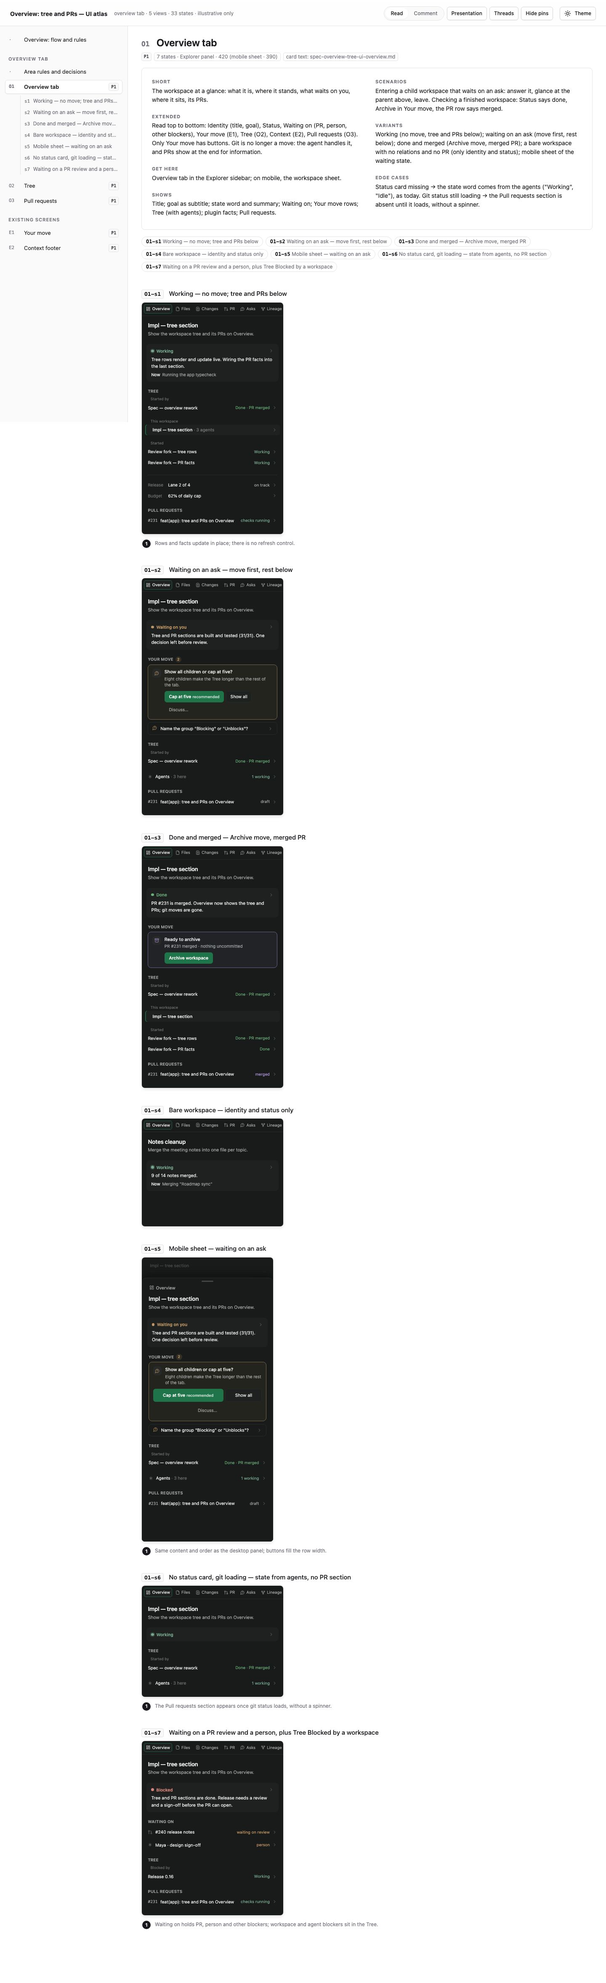
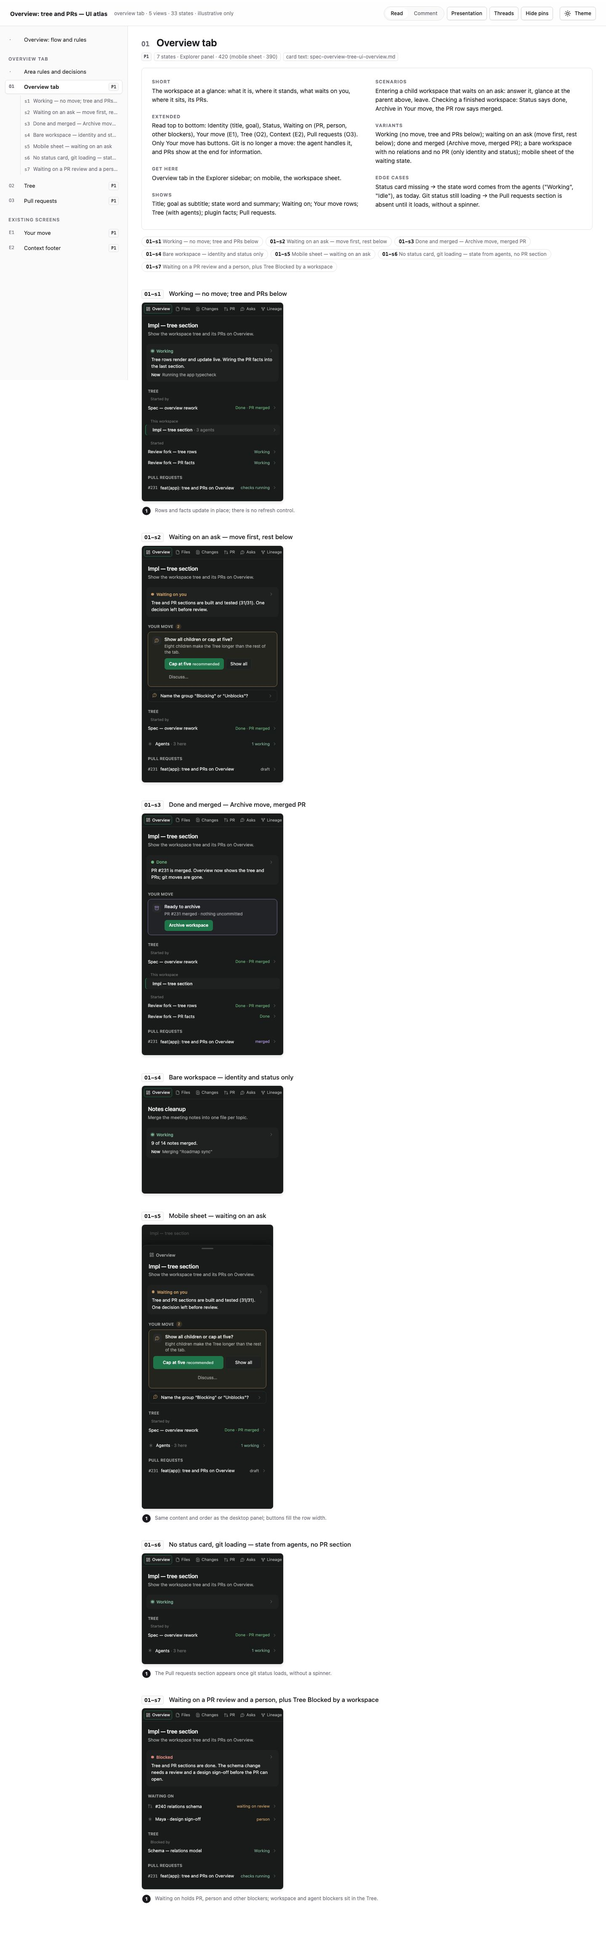
docs(overview): replace invented plugin facts and names in the atlas

diff --git a/.ai/prototypes/overview-tree/index.html b/.ai/prototypes/overview-tree/index.html
@@ -27,7 +27,7 @@
       <div class="ka-states" data-view="O2" hidden><a href="#O2-s1" title="Parent chain, this workspace, children"><code>s1</code> Parent chain, this workspace, children</a><a href="#O2-s2" title="Deep chain — three ancestors, no children"><code>s2</code> Deep chain — three ancestors, no children</a><a href="#O2-s3" title="Many children — five shown, then Show all"><code>s3</code> Many children — five shown, then Show all</a><a href="#O2-s4" title="Blocked by a workspace and an agent"><code>s4</code> Blocked by a workspace and an agent</a><a href="#O2-s5" title="Blocking two workspaces"><code>s5</code> Blocking two workspaces</a><a href="#O2-s6" title="Only children — a root workspace"><code>s6</code> Only children — a root workspace</a><a href="#O2-s7" title="Not loaded, Archived, Removed workspace"><code>s7</code> Not loaded, Archived, Removed workspace</a><a href="#O2-s8" title="Blocks and is blocked by the same workspace"><code>s8</code> Blocks and is blocked by the same workspace</a><a href="#O2-s9" title="Several agents, no This workspace row (Agents row)"><code>s9</code> Several agents, no This workspace row (Agents row)</a></div><a href="#O3" data-view="O3"><span class="ka-id">O3</span><span class="ka-name">Pull requests</span><span class="ka-phase ka-phase-P1">P1</span></a>
       <div class="ka-states" data-view="O3" hidden><a href="#O3-s1" title="One open PR, checks passing"><code>s1</code> One open PR, checks passing</a><a href="#O3-s2" title="Failing checks and changes requested — red"><code>s2</code> Failing checks and changes requested — red</a><a href="#O3-s3" title="Stack of four — two merged, folded"><code>s3</code> Stack of four — two merged, folded</a><a href="#O3-s4" title="Merged row expanded"><code>s4</code> Merged row expanded</a><a href="#O3-s5" title="Merged PR only — shown directly"><code>s5</code> Merged PR only — shown directly</a><a href="#O3-s6" title="No PR yet — branch facts, branch name muted"><code>s6</code> No PR yet — branch facts, branch name muted</a><a href="#O3-s7" title="Linked PR from another repository"><code>s7</code> Linked PR from another repository</a><a href="#O3-s8" title="GitHub unreachable — last facts, &quot;not refreshed&quot;"><code>s8</code> GitHub unreachable — last facts, &quot;not refreshed&quot;</a></div></div><div class="ka-group"><h3>Existing screens</h3><a href="#E1" data-view="E1"><span class="ka-id">E1</span><span class="ka-name">Your move</span><span class="ka-phase ka-phase-P1">P1</span></a>
       <div class="ka-states" data-view="E1" hidden><a href="#E1-s1" title="One ask open"><code>s1</code> One ask open</a><a href="#E1-s2" title="Ask plus permission"><code>s2</code> Ask plus permission</a><a href="#E1-s3" title="Failed agent"><code>s3</code> Failed agent</a><a href="#E1-s4" title="Archive alone after a merge"><code>s4</code> Archive alone after a merge</a><a href="#E1-s5" title="Empty — section hidden, branch unpushed"><code>s5</code> Empty — section hidden, branch unpushed</a><a href="#E1-s6" title="Archive fails — error under the title"><code>s6</code> Archive fails — error under the title</a><a href="#E1-s7" title="PR merged, agent still running — no Archive"><code>s7</code> PR merged, agent still running — no Archive</a></div><a href="#E2" data-view="E2"><span class="ka-id">E2</span><span class="ka-name">Context footer</span><span class="ka-phase ka-phase-P1">P1</span></a>
-      <div class="ka-states" data-view="E2" hidden><a href="#E2-s1" title="Two plugin facts"><code>s1</code> Two plugin facts</a><a href="#E2-s2" title="Nothing to say — footer hidden"><code>s2</code> Nothing to say — footer hidden</a></div></div>
+      <div class="ka-states" data-view="E2" hidden><a href="#E2-s1" title="Two plugin facts (a third-party plugin)"><code>s1</code> Two plugin facts (a third-party plugin)</a><a href="#E2-s2" title="Nothing to say — footer hidden"><code>s2</code> Nothing to say — footer hidden</a></div></div>
   </nav></aside>
 <main class="doc ka-main">
 <header class="doc-head" hidden><h1>Overview: tree and PRs — UI atlas</h1></header>
@@ -77,7 +77,7 @@
     <div class="ot-state ot-t-run"><i class="ot-dot is-pulse"></i>Working<span class="ot-chev ot-push"><svg aria-hidden="true"><use href="#ic-chevron-right"/></svg></span></div>
     <p class="ot-summary">Tree rows render and update live. Wiring the PR facts into the last section.</p>
     <p class="ot-now"><b>Now</b>Running the app typecheck</p>
-  </section><section class="ot-sec"><div class="ot-sec-title">Tree</div><div class="ot-grp"><div class="ot-grp-label">Started by</div><div class="ot-row  " style="--lv:0"><span class="ot-name">Spec — overview rework</span><span class="ot-word"><span class="ot-t-ok">Done · PR merged</span></span><span class="ot-chev"><svg aria-hidden="true"><use href="#ic-chevron-right"/></svg></span></div></div><div class="ot-grp"><div class="ot-grp-label">This workspace</div><div class="ot-row is-here " style="--lv:1"><span class="ot-name">Impl — tree section<span class="ot-dim"> · 3 agents</span></span><span class="ot-chev"><svg aria-hidden="true"><use href="#ic-chevron-right"/></svg></span></div></div><div class="ot-grp"><div class="ot-grp-label">Started</div><div class="ot-row  " style="--lv:0"><span class="ot-name">Review fork — tree rows</span><span class="ot-word"><span class="ot-t-run">Working</span></span><span class="ot-chev"><svg aria-hidden="true"><use href="#ic-chevron-right"/></svg></span></div><div class="ot-row  " style="--lv:0"><span class="ot-name">Review fork — PR facts</span><span class="ot-word"><span class="ot-t-run">Working</span></span><span class="ot-chev"><svg aria-hidden="true"><use href="#ic-chevron-right"/></svg></span></div></div></section><footer class="ot-ctx"><div class="ot-ctx-row"><span class="ot-k">Release</span><span class="ot-v">Lane 2 of 4</span><span class="ot-word ot-t-muted">on track</span><span class="ot-chev"><svg aria-hidden="true"><use href="#ic-chevron-right"/></svg></span></div><div class="ot-ctx-row"><span class="ot-k">Budget</span><span class="ot-v">62% of daily cap</span><span class="ot-chev"><svg aria-hidden="true"><use href="#ic-chevron-right"/></svg></span></div></footer><section class="ot-sec"><div class="ot-sec-title">Pull requests</div><div class="ot-row "><span class="ot-pr">#231</span><span class="ot-name">feat(app): tree and PRs on Overview</span><span class="ot-word ot-t-run">checks running</span><span class="ot-chev"><svg aria-hidden="true"><use href="#ic-chevron-right"/></svg></span></div></section></div></div></div>
+  </section><section class="ot-sec"><div class="ot-sec-title">Tree</div><div class="ot-grp"><div class="ot-grp-label">Started by</div><div class="ot-row  " style="--lv:0"><span class="ot-name">Spec — overview rework</span><span class="ot-word"><span class="ot-t-ok">Done · PR merged</span></span><span class="ot-chev"><svg aria-hidden="true"><use href="#ic-chevron-right"/></svg></span></div></div><div class="ot-grp"><div class="ot-grp-label">This workspace</div><div class="ot-row is-here " style="--lv:1"><span class="ot-name">Impl — tree section<span class="ot-dim"> · 3 agents</span></span><span class="ot-chev"><svg aria-hidden="true"><use href="#ic-chevron-right"/></svg></span></div></div><div class="ot-grp"><div class="ot-grp-label">Started</div><div class="ot-row  " style="--lv:0"><span class="ot-name">Review fork — tree rows</span><span class="ot-word"><span class="ot-t-run">Working</span></span><span class="ot-chev"><svg aria-hidden="true"><use href="#ic-chevron-right"/></svg></span></div><div class="ot-row  " style="--lv:0"><span class="ot-name">Review fork — PR facts</span><span class="ot-word"><span class="ot-t-run">Working</span></span><span class="ot-chev"><svg aria-hidden="true"><use href="#ic-chevron-right"/></svg></span></div></div></section><section class="ot-sec"><div class="ot-sec-title">Pull requests</div><div class="ot-row "><span class="ot-pr">#231</span><span class="ot-name">feat(app): tree and PRs on Overview</span><span class="ot-word ot-t-run">checks running</span><span class="ot-chev"><svg aria-hidden="true"><use href="#ic-chevron-right"/></svg></span></div></section></div></div></div>
     <div class="notes"><div class="note"><b>1</b><span>Rows and facts update in place; there is no refresh control.</span></div></div>
   </figure>
 <figure class="ka-state" id="O1-s2">
@@ -143,9 +143,9 @@
     <figcaption><a class="ka-sid" href="#O1-s7">O1-s7</a><span>Waiting on a PR review and a person, plus Tree Blocked by a workspace</span></figcaption>
     <div class="frame ot-frame"><div class="ot-win dark"><div class="ot-tabs"><div class="ot-tab is-on"><svg aria-hidden="true"><use href="#ic-dash"/></svg><span>Overview</span></div><div class="ot-tab "><svg aria-hidden="true"><use href="#ic-files"/></svg><span>Files</span></div><div class="ot-tab "><svg aria-hidden="true"><use href="#ic-diff"/></svg><span>Changes</span></div><div class="ot-tab "><svg aria-hidden="true"><use href="#ic-pr"/></svg><span>PR</span></div><div class="ot-tab "><svg aria-hidden="true"><use href="#ic-ask"/></svg><span>Asks</span></div><div class="ot-tab "><svg aria-hidden="true"><use href="#ic-fork"/></svg><span>Lineage</span></div><span class="ot-tabs-end"><svg aria-hidden="true"><use href="#ic-plus"/></svg><svg aria-hidden="true"><use href="#ic-panel"/></svg></span></div><div class="ot-ov"><header class="ot-id"><h1 class="ot-title">Impl — tree section</h1><p class="ot-goal">Show the workspace tree and its PRs on Overview.</p></header><section class="ot-story">
     <div class="ot-state ot-t-danger"><i class="ot-dot "></i>Blocked<span class="ot-chev ot-push"><svg aria-hidden="true"><use href="#ic-chevron-right"/></svg></span></div>
-    <p class="ot-summary">Tree and PR sections are done. Release needs a review and a sign-off before the PR can open.</p>
+    <p class="ot-summary">Tree and PR sections are done. The schema change needs a review and a design sign-off before the PR can open.</p>
     
-  </section><section class="ot-sec"><div class="ot-sec-title">Waiting on</div><div class="ot-row"><span class="ot-ricon"><svg aria-hidden="true"><use href="#ic-pr"/></svg></span><span class="ot-name">#240 release notes</span><span class="ot-word ot-t-warn">waiting on review</span><span class="ot-chev"><svg aria-hidden="true"><use href="#ic-chevron-right"/></svg></span></div><div class="ot-row"><span class="ot-ricon"><svg aria-hidden="true"><use href="#ic-agent"/></svg></span><span class="ot-name">Maya · design sign-off</span><span class="ot-word ot-t-warn">person</span><span class="ot-chev"><svg aria-hidden="true"><use href="#ic-chevron-right"/></svg></span></div></section><section class="ot-sec"><div class="ot-sec-title">Tree</div><div class="ot-grp"><div class="ot-grp-label">Blocked by</div><div class="ot-row  " style="--lv:0"><span class="ot-name">Release 0.16</span><span class="ot-word"><span class="ot-t-run">Working</span></span><span class="ot-chev"><svg aria-hidden="true"><use href="#ic-chevron-right"/></svg></span></div></div></section><section class="ot-sec"><div class="ot-sec-title">Pull requests</div><div class="ot-row "><span class="ot-pr">#231</span><span class="ot-name">feat(app): tree and PRs on Overview</span><span class="ot-word ot-t-run">checks running</span><span class="ot-chev"><svg aria-hidden="true"><use href="#ic-chevron-right"/></svg></span></div></section></div></div></div>
+  </section><section class="ot-sec"><div class="ot-sec-title">Waiting on</div><div class="ot-row"><span class="ot-ricon"><svg aria-hidden="true"><use href="#ic-pr"/></svg></span><span class="ot-name">#240 relations schema</span><span class="ot-word ot-t-warn">waiting on review</span><span class="ot-chev"><svg aria-hidden="true"><use href="#ic-chevron-right"/></svg></span></div><div class="ot-row"><span class="ot-ricon"><svg aria-hidden="true"><use href="#ic-agent"/></svg></span><span class="ot-name">Maya · design sign-off</span><span class="ot-word ot-t-warn">person</span><span class="ot-chev"><svg aria-hidden="true"><use href="#ic-chevron-right"/></svg></span></div></section><section class="ot-sec"><div class="ot-sec-title">Tree</div><div class="ot-grp"><div class="ot-grp-label">Blocked by</div><div class="ot-row  " style="--lv:0"><span class="ot-name">Schema — relations model</span><span class="ot-word"><span class="ot-t-run">Working</span></span><span class="ot-chev"><svg aria-hidden="true"><use href="#ic-chevron-right"/></svg></span></div></div></section><section class="ot-sec"><div class="ot-sec-title">Pull requests</div><div class="ot-row "><span class="ot-pr">#231</span><span class="ot-name">feat(app): tree and PRs on Overview</span><span class="ot-word ot-t-run">checks running</span><span class="ot-chev"><svg aria-hidden="true"><use href="#ic-chevron-right"/></svg></span></div></section></div></div></div>
     <div class="notes"><div class="note"><b>1</b><span>Waiting on holds PR, person and other blockers; workspace and agent blockers sit in the Tree.</span></div></div>
   </figure>
 </section>
@@ -154,7 +154,7 @@
     <h2><span class="ka-id">O2</span> Tree</h2>
     <div class="ka-tags"><span class="ka-phase ka-phase-P1">P1</span><span class="ka-tag">9 states · Explorer panel · 420 (mobile sheet · 390)</span><a class="ka-tag" href="../../../tasks/spec-overview-tree-ui-overview.md">card text: spec-overview-tree-ui-overview.md</a></div>
   </div>
-  <div class="ka-card"><div class="ka-col"><div class="ka-field"><h4>Short</h4><div class="ka-md"><p>Where this workspace sits among others: who started it, what it started, what blocks it, what it blocks, and how many agents work in it.</p></div></div><div class="ka-field"><h4>Extended</h4><div class="ka-md"><p>Up to five groups, each only when it has rows, in this order:</p><ul><li><b>Started by</b> — the ancestor chain, root first, down to the direct parent. Indented one step per level.</li><li><b>This workspace</b> — one highlighted row anchoring the chain; only when there are both ancestors and children. With more than one top-level agent it reads &quot;Impl — tree section · 3 agents&quot; and opens the Lineage tab; otherwise it is not pressable.</li><li><b>Agents</b> — &quot;Agents · 3 here&quot;, opening the Lineage tab: only with more than one top-level agent and no This workspace row. Placed where This workspace would be (after Started by, before Started).</li><li><b>Started</b> — direct children: needing you first (Waiting, Blocked, Failed), then newest first; five shown, then &quot;Show all (N)&quot;. A child that started others shows &quot;· 3 started&quot; after its state word.</li><li><b>Blocked by</b> — workspaces and agents named in this workspace's status <code>blockedBy</code> (only while the status says blocked). An agent blocker shows the agent's title and its workspace.</li><li><b>Blocking</b> — workspaces whose current, blocked status names this workspace or one of its agents. Pressing a workspace row opens that workspace (its Overview); an agent row opens that agent.</li></ul></div></div><div class="ka-field"><h4>Get here</h4><div class="ka-md"><p>Section of O1, directly after Your move.</p></div></div><div class="ka-field"><h4>Shows</h4><div class="ka-md"><p>Section label &quot;Tree&quot;; per row: name, state word in its tone (&quot;Working&quot;, &quot;Waiting&quot;, &quot;Blocked&quot;, &quot;Done · PR merged&quot;), chevron.</p></div></div></div><div class="ka-col"><div class="ka-field"><h4>Scenarios</h4><div class="ka-md"><p>An impl workspace started by a spec agent: &quot;Started by: Spec — overview rework&quot; above, two review forks below. A workspace waiting on another's PR merge: &quot;Blocked by: Release 0.16 · Working&quot;.</p></div></div><div class="ka-field"><h4>Variants</h4><div class="ka-md"><p>Parent chain + this + children; deep chain (3 ancestors); many children (Show all); blocked by a workspace and an agent; blocking two workspaces; only children (a root); several agents with no This workspace row (Agents row).</p></div></div><div class="ka-field"><h4>Edge cases</h4><div class="ka-md"><p>An ancestor or child on a host that isn't connected → its last known name, muted, with the word &quot;Not loaded&quot;; not pressable. An archived parent → the row shows &quot;Archived&quot; and still opens it. A blocker workspace that no longer exists → &quot;Removed workspace&quot;, muted, not pressable. A workspace that both blocks and is blocked by the same one shows in both groups.</p></div></div></div></div>
+  <div class="ka-card"><div class="ka-col"><div class="ka-field"><h4>Short</h4><div class="ka-md"><p>Where this workspace sits among others: who started it, what it started, what blocks it, what it blocks, and how many agents work in it.</p></div></div><div class="ka-field"><h4>Extended</h4><div class="ka-md"><p>Up to five groups, each only when it has rows, in this order:</p><ul><li><b>Started by</b> — the ancestor chain, root first, down to the direct parent. Indented one step per level.</li><li><b>This workspace</b> — one highlighted row anchoring the chain; only when there are both ancestors and children. With more than one top-level agent it reads &quot;Impl — tree section · 3 agents&quot; and opens the Lineage tab; otherwise it is not pressable.</li><li><b>Agents</b> — &quot;Agents · 3 here&quot;, opening the Lineage tab: only with more than one top-level agent and no This workspace row. Placed where This workspace would be (after Started by, before Started).</li><li><b>Started</b> — direct children: needing you first (Waiting, Blocked, Failed), then newest first; five shown, then &quot;Show all (N)&quot;. A child that started others shows &quot;· 3 started&quot; after its state word.</li><li><b>Blocked by</b> — workspaces and agents named in this workspace's status <code>blockedBy</code> (only while the status says blocked). An agent blocker shows the agent's title and its workspace.</li><li><b>Blocking</b> — workspaces whose current, blocked status names this workspace or one of its agents. Pressing a workspace row opens that workspace (its Overview); an agent row opens that agent.</li></ul></div></div><div class="ka-field"><h4>Get here</h4><div class="ka-md"><p>Section of O1, directly after Your move.</p></div></div><div class="ka-field"><h4>Shows</h4><div class="ka-md"><p>Section label &quot;Tree&quot;; per row: name, state word in its tone (&quot;Working&quot;, &quot;Waiting&quot;, &quot;Blocked&quot;, &quot;Done · PR merged&quot;), chevron.</p></div></div></div><div class="ka-col"><div class="ka-field"><h4>Scenarios</h4><div class="ka-md"><p>An impl workspace started by a spec agent: &quot;Started by: Spec — overview rework&quot; above, two review forks below. A workspace waiting on another's PR merge: &quot;Blocked by: Schema — relations model · Working&quot;.</p></div></div><div class="ka-field"><h4>Variants</h4><div class="ka-md"><p>Parent chain + this + children; deep chain (3 ancestors); many children (Show all); blocked by a workspace and an agent; blocking two workspaces; only children (a root); several agents with no This workspace row (Agents row).</p></div></div><div class="ka-field"><h4>Edge cases</h4><div class="ka-md"><p>An ancestor or child on a host that isn't connected → its last known name, muted, with the word &quot;Not loaded&quot;; not pressable. An archived parent → the row shows &quot;Archived&quot; and still opens it. A blocker workspace that no longer exists → &quot;Removed workspace&quot;, muted, not pressable. A workspace that both blocks and is blocked by the same one shows in both groups.</p></div></div></div></div>
   <nav class="ka-state-index" aria-label="O2 states"><a href="#O2-s1"><code>O2-s1</code> Parent chain, this workspace, children</a><a href="#O2-s2"><code>O2-s2</code> Deep chain — three ancestors, no children</a><a href="#O2-s3"><code>O2-s3</code> Many children — five shown, then Show all</a><a href="#O2-s4"><code>O2-s4</code> Blocked by a workspace and an agent</a><a href="#O2-s5"><code>O2-s5</code> Blocking two workspaces</a><a href="#O2-s6"><code>O2-s6</code> Only children — a root workspace</a><a href="#O2-s7"><code>O2-s7</code> Not loaded, Archived, Removed workspace</a><a href="#O2-s8"><code>O2-s8</code> Blocks and is blocked by the same workspace</a><a href="#O2-s9"><code>O2-s9</code> Several agents, no This workspace row (Agents row)</a></nav>
   <figure class="ka-state" id="O2-s1">
     <figcaption><a class="ka-sid" href="#O2-s1">O2-s1</a><span>Parent chain, this workspace, children</span></figcaption>
@@ -175,9 +175,9 @@
     <figcaption><a class="ka-sid" href="#O2-s4">O2-s4</a><span>Blocked by a workspace and an agent</span></figcaption>
     <div class="frame ot-frame"><div class="ot-win dark"><div class="ot-tabs"><div class="ot-tab is-on"><svg aria-hidden="true"><use href="#ic-dash"/></svg><span>Overview</span></div><div class="ot-tab "><svg aria-hidden="true"><use href="#ic-files"/></svg><span>Files</span></div><div class="ot-tab "><svg aria-hidden="true"><use href="#ic-diff"/></svg><span>Changes</span></div><div class="ot-tab "><svg aria-hidden="true"><use href="#ic-pr"/></svg><span>PR</span></div><div class="ot-tab "><svg aria-hidden="true"><use href="#ic-ask"/></svg><span>Asks</span></div><div class="ot-tab "><svg aria-hidden="true"><use href="#ic-fork"/></svg><span>Lineage</span></div><span class="ot-tabs-end"><svg aria-hidden="true"><use href="#ic-plus"/></svg><svg aria-hidden="true"><use href="#ic-panel"/></svg></span></div><div class="ot-ov"><div class="ot-cut">⋯</div><section class="ot-story">
     <div class="ot-state ot-t-danger"><i class="ot-dot "></i>Blocked<span class="ot-chev ot-push"><svg aria-hidden="true"><use href="#ic-chevron-right"/></svg></span></div>
-    <p class="ot-summary">Waiting for the release branch before opening the PR.</p>
+    <p class="ot-summary">Waiting for the relations schema to land before opening the PR.</p>
     
-  </section><section class="ot-sec"><div class="ot-sec-title">Tree</div><div class="ot-grp"><div class="ot-grp-label">Blocked by</div><div class="ot-row  " style="--lv:0"><span class="ot-name">Release 0.16</span><span class="ot-word"><span class="ot-t-run">Working</span></span><span class="ot-chev"><svg aria-hidden="true"><use href="#ic-chevron-right"/></svg></span></div><div class="ot-row  " style="--lv:0"><span class="ot-ricon"><svg aria-hidden="true"><use href="#ic-agent"/></svg></span><span class="ot-name">Reviewer · Docs: screenshots</span><span class="ot-word"><span class="ot-t-warn">Waiting</span></span><span class="ot-chev"><svg aria-hidden="true"><use href="#ic-chevron-right"/></svg></span></div></div></section><div class="ot-cut">⋯</div></div></div></div>
+  </section><section class="ot-sec"><div class="ot-sec-title">Tree</div><div class="ot-grp"><div class="ot-grp-label">Blocked by</div><div class="ot-row  " style="--lv:0"><span class="ot-name">Schema — relations model</span><span class="ot-word"><span class="ot-t-run">Working</span></span><span class="ot-chev"><svg aria-hidden="true"><use href="#ic-chevron-right"/></svg></span></div><div class="ot-row  " style="--lv:0"><span class="ot-ricon"><svg aria-hidden="true"><use href="#ic-agent"/></svg></span><span class="ot-name">Reviewer · Docs: screenshots</span><span class="ot-word"><span class="ot-t-warn">Waiting</span></span><span class="ot-chev"><svg aria-hidden="true"><use href="#ic-chevron-right"/></svg></span></div></div></section><div class="ot-cut">⋯</div></div></div></div>
     <div class="notes"><div class="note"><b>1</b><span>An agent row opens that agent; a workspace row opens its Overview.</span></div></div>
   </figure>
 <figure class="ka-state" id="O2-s5">
@@ -192,12 +192,12 @@
   </figure>
 <figure class="ka-state" id="O2-s7">
     <figcaption><a class="ka-sid" href="#O2-s7">O2-s7</a><span>Not loaded, Archived, Removed workspace</span></figcaption>
-    <div class="frame ot-frame"><div class="ot-win dark"><div class="ot-tabs"><div class="ot-tab is-on"><svg aria-hidden="true"><use href="#ic-dash"/></svg><span>Overview</span></div><div class="ot-tab "><svg aria-hidden="true"><use href="#ic-files"/></svg><span>Files</span></div><div class="ot-tab "><svg aria-hidden="true"><use href="#ic-diff"/></svg><span>Changes</span></div><div class="ot-tab "><svg aria-hidden="true"><use href="#ic-pr"/></svg><span>PR</span></div><div class="ot-tab "><svg aria-hidden="true"><use href="#ic-ask"/></svg><span>Asks</span></div><div class="ot-tab "><svg aria-hidden="true"><use href="#ic-fork"/></svg><span>Lineage</span></div><span class="ot-tabs-end"><svg aria-hidden="true"><use href="#ic-plus"/></svg><svg aria-hidden="true"><use href="#ic-panel"/></svg></span></div><div class="ot-ov"><div class="ot-cut">⋯</div><section class="ot-sec"><div class="ot-sec-title">Tree</div><div class="ot-grp"><div class="ot-grp-label">Started by</div><div class="ot-row  is-off" style="--lv:0"><span class="ot-name">Overview roadmap</span><span class="ot-word"><span class="ot-t-muted">Not loaded</span></span></div><div class="ot-row  " style="--lv:1"><span class="ot-name">Release 0.15</span><span class="ot-word"><span class="ot-t-muted">Archived</span></span><span class="ot-chev"><svg aria-hidden="true"><use href="#ic-chevron-right"/></svg></span></div></div><div class="ot-grp"><div class="ot-grp-label">Started</div><div class="ot-row  is-off" style="--lv:0"><span class="ot-name">Fix stale PR facts</span><span class="ot-word"><span class="ot-t-muted">Not loaded</span></span></div></div><div class="ot-grp"><div class="ot-grp-label">Blocked by</div><div class="ot-row  is-off" style="--lv:0"><span class="ot-name">Removed workspace</span></div></div></section><div class="ot-cut">⋯</div></div></div></div>
+    <div class="frame ot-frame"><div class="ot-win dark"><div class="ot-tabs"><div class="ot-tab is-on"><svg aria-hidden="true"><use href="#ic-dash"/></svg><span>Overview</span></div><div class="ot-tab "><svg aria-hidden="true"><use href="#ic-files"/></svg><span>Files</span></div><div class="ot-tab "><svg aria-hidden="true"><use href="#ic-diff"/></svg><span>Changes</span></div><div class="ot-tab "><svg aria-hidden="true"><use href="#ic-pr"/></svg><span>PR</span></div><div class="ot-tab "><svg aria-hidden="true"><use href="#ic-ask"/></svg><span>Asks</span></div><div class="ot-tab "><svg aria-hidden="true"><use href="#ic-fork"/></svg><span>Lineage</span></div><span class="ot-tabs-end"><svg aria-hidden="true"><use href="#ic-plus"/></svg><svg aria-hidden="true"><use href="#ic-panel"/></svg></span></div><div class="ot-ov"><div class="ot-cut">⋯</div><section class="ot-sec"><div class="ot-sec-title">Tree</div><div class="ot-grp"><div class="ot-grp-label">Started by</div><div class="ot-row  is-off" style="--lv:0"><span class="ot-name">Overview roadmap</span><span class="ot-word"><span class="ot-t-muted">Not loaded</span></span></div><div class="ot-row  " style="--lv:1"><span class="ot-name">Overview v3</span><span class="ot-word"><span class="ot-t-muted">Archived</span></span><span class="ot-chev"><svg aria-hidden="true"><use href="#ic-chevron-right"/></svg></span></div></div><div class="ot-grp"><div class="ot-grp-label">Started</div><div class="ot-row  is-off" style="--lv:0"><span class="ot-name">Fix stale PR facts</span><span class="ot-word"><span class="ot-t-muted">Not loaded</span></span></div></div><div class="ot-grp"><div class="ot-grp-label">Blocked by</div><div class="ot-row  is-off" style="--lv:0"><span class="ot-name">Removed workspace</span></div></div></section><div class="ot-cut">⋯</div></div></div></div>
     <div class="notes"><div class="note"><b>1</b><span>Not loaded and Removed workspace are muted and not pressable; Archived still opens the workspace.</span></div></div>
   </figure>
 <figure class="ka-state" id="O2-s8">
     <figcaption><a class="ka-sid" href="#O2-s8">O2-s8</a><span>Blocks and is blocked by the same workspace</span></figcaption>
-    <div class="frame ot-frame"><div class="ot-win dark"><div class="ot-tabs"><div class="ot-tab is-on"><svg aria-hidden="true"><use href="#ic-dash"/></svg><span>Overview</span></div><div class="ot-tab "><svg aria-hidden="true"><use href="#ic-files"/></svg><span>Files</span></div><div class="ot-tab "><svg aria-hidden="true"><use href="#ic-diff"/></svg><span>Changes</span></div><div class="ot-tab "><svg aria-hidden="true"><use href="#ic-pr"/></svg><span>PR</span></div><div class="ot-tab "><svg aria-hidden="true"><use href="#ic-ask"/></svg><span>Asks</span></div><div class="ot-tab "><svg aria-hidden="true"><use href="#ic-fork"/></svg><span>Lineage</span></div><span class="ot-tabs-end"><svg aria-hidden="true"><use href="#ic-plus"/></svg><svg aria-hidden="true"><use href="#ic-panel"/></svg></span></div><div class="ot-ov"><div class="ot-cut">⋯</div><section class="ot-sec"><div class="ot-sec-title">Tree</div><div class="ot-grp"><div class="ot-grp-label">Blocked by</div><div class="ot-row  " style="--lv:0"><span class="ot-name">Release 0.16</span><span class="ot-word"><span class="ot-t-danger">Blocked</span></span><span class="ot-chev"><svg aria-hidden="true"><use href="#ic-chevron-right"/></svg></span></div></div><div class="ot-grp"><div class="ot-grp-label">Blocking</div><div class="ot-row  " style="--lv:0"><span class="ot-name">Release 0.16</span><span class="ot-word"><span class="ot-t-danger">Blocked</span></span><span class="ot-chev"><svg aria-hidden="true"><use href="#ic-chevron-right"/></svg></span></div></div></section><div class="ot-cut">⋯</div></div></div></div>
+    <div class="frame ot-frame"><div class="ot-win dark"><div class="ot-tabs"><div class="ot-tab is-on"><svg aria-hidden="true"><use href="#ic-dash"/></svg><span>Overview</span></div><div class="ot-tab "><svg aria-hidden="true"><use href="#ic-files"/></svg><span>Files</span></div><div class="ot-tab "><svg aria-hidden="true"><use href="#ic-diff"/></svg><span>Changes</span></div><div class="ot-tab "><svg aria-hidden="true"><use href="#ic-pr"/></svg><span>PR</span></div><div class="ot-tab "><svg aria-hidden="true"><use href="#ic-ask"/></svg><span>Asks</span></div><div class="ot-tab "><svg aria-hidden="true"><use href="#ic-fork"/></svg><span>Lineage</span></div><span class="ot-tabs-end"><svg aria-hidden="true"><use href="#ic-plus"/></svg><svg aria-hidden="true"><use href="#ic-panel"/></svg></span></div><div class="ot-ov"><div class="ot-cut">⋯</div><section class="ot-sec"><div class="ot-sec-title">Tree</div><div class="ot-grp"><div class="ot-grp-label">Blocked by</div><div class="ot-row  " style="--lv:0"><span class="ot-name">Schema — relations model</span><span class="ot-word"><span class="ot-t-danger">Blocked</span></span><span class="ot-chev"><svg aria-hidden="true"><use href="#ic-chevron-right"/></svg></span></div></div><div class="ot-grp"><div class="ot-grp-label">Blocking</div><div class="ot-row  " style="--lv:0"><span class="ot-name">Schema — relations model</span><span class="ot-word"><span class="ot-t-danger">Blocked</span></span><span class="ot-chev"><svg aria-hidden="true"><use href="#ic-chevron-right"/></svg></span></div></div></section><div class="ot-cut">⋯</div></div></div></div>
     
   </figure>
 <figure class="ka-state" id="O2-s9">
@@ -334,12 +334,12 @@
     <h2><span class="ka-id">E2</span> Context footer</h2>
     <div class="ka-tags"><span class="ka-phase ka-phase-P1">P1</span><span class="ka-tag">2 states · Explorer panel · 420 (mobile sheet · 390)</span><a class="ka-tag" href="../../../tasks/spec-overview-tree-ui-overview.md">card text: spec-overview-tree-ui-overview.md</a></div>
   </div>
-  <div class="ka-card"><div class="ka-col"><div class="ka-field"><h4>Short</h4><div class="ka-md"><p>The remaining one-line facts: plugin facts.</p></div></div><div class="ka-field"><h4>Extended</h4><div class="ka-md"><p>Loses From, Started and Agents (now O2) and the PR or branch row (now O3). Keeps plugin facts without a status or a move.</p></div></div><div class="ka-field"><h4>Get here</h4><div class="ka-md"><p>Section of O1, between Tree and Pull requests.</p></div></div><div class="ka-field"><h4>Shows</h4><div class="ka-md"><p>Unlabelled rows: label, value, chevron.</p></div></div></div><div class="ka-col"><div class="ka-field"><h4>Variants</h4><div class="ka-md"><p>Two plugin facts; hidden when there is nothing to say.</p></div></div><div class="ka-field"><h4>Edge cases</h4><div class="ka-md"><p>None beyond today's.</p></div></div></div></div>
-  <nav class="ka-state-index" aria-label="E2 states"><a href="#E2-s1"><code>E2-s1</code> Two plugin facts</a><a href="#E2-s2"><code>E2-s2</code> Nothing to say — footer hidden</a></nav>
+  <div class="ka-card"><div class="ka-col"><div class="ka-field"><h4>Short</h4><div class="ka-md"><p>The remaining one-line facts: plugin facts.</p></div></div><div class="ka-field"><h4>Extended</h4><div class="ka-md"><p>Loses From, Started and Agents (now O2) and the PR or branch row (now O3). Keeps plugin facts without a status or a move.</p></div></div><div class="ka-field"><h4>Get here</h4><div class="ka-md"><p>Section of O1, between Tree and Pull requests.</p></div></div><div class="ka-field"><h4>Shows</h4><div class="ka-md"><p>Unlabelled rows: label, value, chevron.</p></div></div></div><div class="ka-col"><div class="ka-field"><h4>Variants</h4><div class="ka-md"><p>Two plugin facts; hidden when there is nothing to say.</p></div></div><div class="ka-field"><h4>Note</h4><div class="ka-md"><p>None of the installed plugins publish plain facts (paseo-status fills Status, paseo-asks fills Your move), so today the footer stays hidden; it remains for third-party plugins.</p></div></div><div class="ka-field"><h4>Edge cases</h4><div class="ka-md"><p>None beyond today's.</p></div></div></div></div>
+  <nav class="ka-state-index" aria-label="E2 states"><a href="#E2-s1"><code>E2-s1</code> Two plugin facts (a third-party plugin)</a><a href="#E2-s2"><code>E2-s2</code> Nothing to say — footer hidden</a></nav>
   <figure class="ka-state" id="E2-s1">
-    <figcaption><a class="ka-sid" href="#E2-s1">E2-s1</a><span>Two plugin facts</span></figcaption>
-    <div class="frame ot-frame"><div class="ot-win dark"><div class="ot-tabs"><div class="ot-tab is-on"><svg aria-hidden="true"><use href="#ic-dash"/></svg><span>Overview</span></div><div class="ot-tab "><svg aria-hidden="true"><use href="#ic-files"/></svg><span>Files</span></div><div class="ot-tab "><svg aria-hidden="true"><use href="#ic-diff"/></svg><span>Changes</span></div><div class="ot-tab "><svg aria-hidden="true"><use href="#ic-pr"/></svg><span>PR</span></div><div class="ot-tab "><svg aria-hidden="true"><use href="#ic-ask"/></svg><span>Asks</span></div><div class="ot-tab "><svg aria-hidden="true"><use href="#ic-fork"/></svg><span>Lineage</span></div><span class="ot-tabs-end"><svg aria-hidden="true"><use href="#ic-plus"/></svg><svg aria-hidden="true"><use href="#ic-panel"/></svg></span></div><div class="ot-ov"><div class="ot-cut">⋯</div><section class="ot-sec"><div class="ot-sec-title">Tree</div><div class="ot-grp"><div class="ot-grp-label">Started by</div><div class="ot-row  " style="--lv:0"><span class="ot-name">Spec — overview rework</span><span class="ot-word"><span class="ot-t-ok">Done · PR merged</span></span><span class="ot-chev"><svg aria-hidden="true"><use href="#ic-chevron-right"/></svg></span></div></div></section><footer class="ot-ctx"><div class="ot-ctx-row"><span class="ot-k">Release</span><span class="ot-v">Lane 2 of 4</span><span class="ot-word ot-t-muted">on track</span><span class="ot-chev"><svg aria-hidden="true"><use href="#ic-chevron-right"/></svg></span></div><div class="ot-ctx-row"><span class="ot-k">Budget</span><span class="ot-v">62% of daily cap</span><span class="ot-chev"><svg aria-hidden="true"><use href="#ic-chevron-right"/></svg></span></div></footer><section class="ot-sec"><div class="ot-sec-title">Pull requests</div><div class="ot-row "><span class="ot-pr">#231</span><span class="ot-name">feat(app): tree and PRs on Overview</span><span class="ot-word ot-t-run">checks running</span><span class="ot-chev"><svg aria-hidden="true"><use href="#ic-chevron-right"/></svg></span></div></section><div class="ot-cut">⋯</div></div></div></div>
-    
+    <figcaption><a class="ka-sid" href="#E2-s1">E2-s1</a><span>Two plugin facts (a third-party plugin)</span></figcaption>
+    <div class="frame ot-frame"><div class="ot-win dark"><div class="ot-tabs"><div class="ot-tab is-on"><svg aria-hidden="true"><use href="#ic-dash"/></svg><span>Overview</span></div><div class="ot-tab "><svg aria-hidden="true"><use href="#ic-files"/></svg><span>Files</span></div><div class="ot-tab "><svg aria-hidden="true"><use href="#ic-diff"/></svg><span>Changes</span></div><div class="ot-tab "><svg aria-hidden="true"><use href="#ic-pr"/></svg><span>PR</span></div><div class="ot-tab "><svg aria-hidden="true"><use href="#ic-ask"/></svg><span>Asks</span></div><div class="ot-tab "><svg aria-hidden="true"><use href="#ic-fork"/></svg><span>Lineage</span></div><span class="ot-tabs-end"><svg aria-hidden="true"><use href="#ic-plus"/></svg><svg aria-hidden="true"><use href="#ic-panel"/></svg></span></div><div class="ot-ov"><div class="ot-cut">⋯</div><section class="ot-sec"><div class="ot-sec-title">Tree</div><div class="ot-grp"><div class="ot-grp-label">Started by</div><div class="ot-row  " style="--lv:0"><span class="ot-name">Spec — overview rework</span><span class="ot-word"><span class="ot-t-ok">Done · PR merged</span></span><span class="ot-chev"><svg aria-hidden="true"><use href="#ic-chevron-right"/></svg></span></div></div></section><footer class="ot-ctx"><div class="ot-ctx-row"><span class="ot-k">Preview</span><span class="ot-v">Deployed 4 min ago</span><span class="ot-chev"><svg aria-hidden="true"><use href="#ic-chevron-right"/></svg></span></div><div class="ot-ctx-row"><span class="ot-k">Tests</span><span class="ot-v">214 passed</span><span class="ot-word ot-t-muted">local</span><span class="ot-chev"><svg aria-hidden="true"><use href="#ic-chevron-right"/></svg></span></div></footer><section class="ot-sec"><div class="ot-sec-title">Pull requests</div><div class="ot-row "><span class="ot-pr">#231</span><span class="ot-name">feat(app): tree and PRs on Overview</span><span class="ot-word ot-t-run">checks running</span><span class="ot-chev"><svg aria-hidden="true"><use href="#ic-chevron-right"/></svg></span></div></section><div class="ot-cut">⋯</div></div></div></div>
+    <div class="notes"><div class="note"><b>1</b><span>Only plugins that publish plain facts show here. paseo-status and paseo-asks do not, so with today's plugins the footer stays hidden.</span></div></div>
   </figure>
 <figure class="ka-state" id="E2-s2">
     <figcaption><a class="ka-sid" href="#E2-s2">E2-s2</a><span>Nothing to say — footer hidden</span></figcaption>

diff --git a/tasks/spec-overview-tree-ui-overview.md b/tasks/spec-overview-tree-ui-overview.md
@@ -59,8 +59,7 @@ Map: [spec-overview-tree-ui-map.md](./spec-overview-tree-ui-map.md). Spec: [spec
 - **Shows.** Section label "Tree"; per row: name, state word in its tone ("Working", "Waiting",
   "Blocked", "Done · PR merged"), chevron.
 - **Scenarios.** An impl workspace started by a spec agent: "Started by: Spec — overview rework"
-  above, two review forks below. A workspace waiting on another's PR merge: "Blocked by: Release
-  0.16 · Working".
+  above, two review forks below. A workspace waiting on another's PR merge: "Blocked by: Schema — relations model · Working".
 - **Variants.** Parent chain + this + children; deep chain (3 ancestors); many children (Show all);
   blocked by a workspace and an agent; blocking two workspaces; only children (a root); several
   agents with no This workspace row (Agents row).
@@ -118,6 +117,8 @@ Map: [spec-overview-tree-ui-map.md](./spec-overview-tree-ui-map.md). Spec: [spec
 - **Get here.** Section of O1, between Tree and Pull requests.
 - **Shows.** Unlabelled rows: label, value, chevron.
 - **Variants.** Two plugin facts; hidden when there is nothing to say.
+- **Note.** None of the installed plugins publish plain facts (paseo-status fills Status, paseo-asks
+  fills Your move), so today the footer stays hidden; it remains for third-party plugins.
 - **Edge cases.** None beyond today's.
 
 ## Decisions (cards, 2026-11-23)
